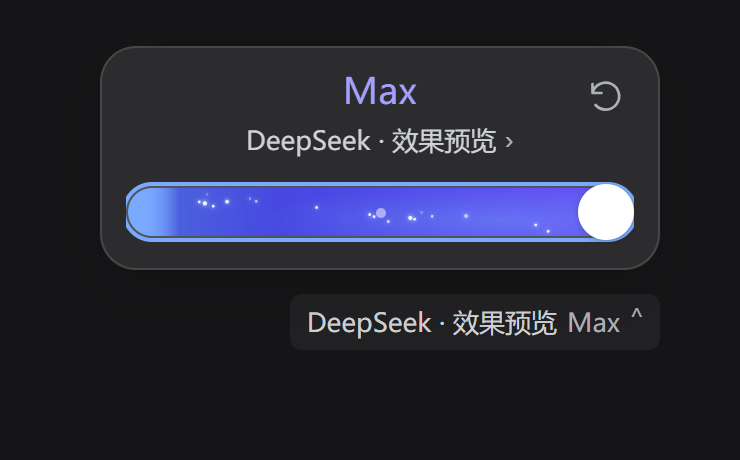
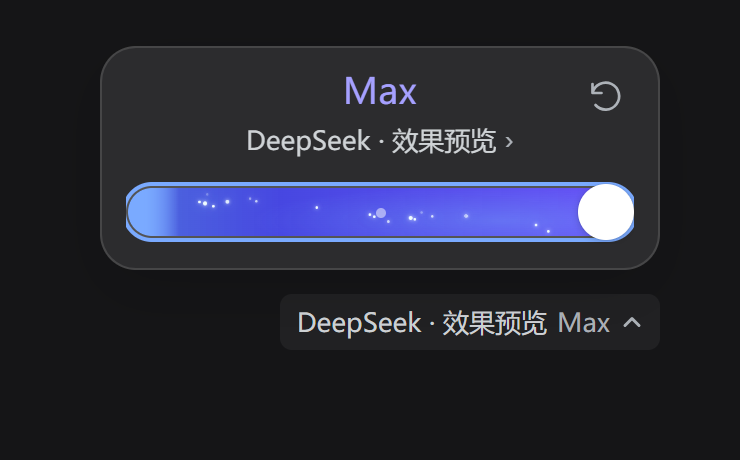
优化 DSHGit PR 查询与代理支持，更新 ReasoningSlider 至 0.1.11
- DSHGit 改为仅在 PR 视图触发 PR 查询，避免启动、刷新及分支切换时访问 GitHub
- PR 查询移出仓库队列，避免阻塞本地状态与分支读取
- 使用 gh GraphQL 一次获取 PR 与默认分支
- HTTPS 远程操作支持 DSH_GIT_PROXY，Windows 下可通过 PowerShell 查询系统代理
- 更新相关测试与 README
- ReasoningSlider 版本升至 0.1.11，替换触发器下拉图标为 SVG 并更新演示图

验证情况：未提供测试结果。

Changed region(s): [[0.4041, 0.6696, 0.8703, 0.7304]]

diff --git a/ReasoningSlider/lib/client.js b/ReasoningSlider/lib/client.js
@@ -38,7 +38,7 @@ var import_react = __toESM(require("react"), 1);
 var import_react_dom = require("react-dom");
 
 // ReasoningSlider/src/style.css
-var style_default = "/* DSH \u63A8\u7406\u6ED1\u6761\uFF1A\u8D34\u5728\u6A21\u578B\u6309\u94AE\u4E0A\u65B9\u7684\u7D27\u51D1\u6D6E\u5C42\u3002\n   Compact popover: 280px wide, 13/18 model caption, 18px level headline and a\n   32px track. The slider eases between stops with one shared bezier curve. */\n\n.rs-trigger{display:flex;align-items:center;gap:5px;border:0;border-radius:6px;background:transparent;color:var(--dsw-alias-label-secondary);font:inherit;font-size:13px;height:28px;padding:0 8px;cursor:pointer;transition:background .15s ease,color .15s ease}\n.rs-trigger span{color:var(--dsw-alias-label-tertiary)}\n.rs-trigger:hover,.rs-trigger[aria-expanded=true]{background:var(--dsw-alias-bg-multi-select)}\n.rs-trigger:disabled{opacity:.55;cursor:default}\n.rs-trigger .rs-trigger-chev{display:inline-block;transition:transform 220ms var(--rs-ease,cubic-bezier(.22,1,.36,1))}\n.rs-trigger[aria-expanded=true] .rs-trigger-chev{transform:rotate(180deg)}\n.rs-trigger:focus-visible{outline:2px solid var(--dsw-alias-state-business-primary,#4176e6);outline-offset:2px}\n\n.rs-panel{--rs-accent:var(--dsw-alias-state-business-primary,#4176e6);--rs-thumb:28px;--rs-ease:cubic-bezier(.25,.8,.25,1);--rs-move:380ms;\n  position:fixed;z-index:1000;width:min(280px,calc(100vw - 20px));box-sizing:border-box;\n  padding:10px 12px 12px;border:1px solid var(--dsw-alias-border-l2);border-radius:18px;\n  background:var(--dsw-alias-bg-layer-2);color:var(--dsw-alias-label-primary);\n  box-shadow:var(--dsw-elevation-prominent,0 10px 30px #0000001f);font-family:inherit;transform-origin:50% 100%}\n.rs-panel.rs-in{animation:rs-panel-in 240ms var(--rs-ease) both}\n@keyframes rs-panel-in{from{opacity:0;transform:translateY(8px) scale(.965)}to{opacity:1;transform:none}}\n.rs-panel button{font-family:inherit;cursor:pointer;border:0;background:transparent}\n.rs-panel button:disabled{opacity:.4;cursor:default}\n.rs-panel button:focus-visible{outline:2px solid var(--rs-accent);outline-offset:2px}\n\n.rs-reset{position:absolute;right:10px;top:8px;display:grid;place-items:center;width:28px;height:28px;\n  padding:0;border-radius:50%;color:var(--dsw-alias-label-tertiary);\n  transition:background .15s ease,color .15s ease,transform 240ms var(--rs-ease)}\n.rs-reset:hover{background:var(--dsw-alias-bg-multi-select);color:var(--dsw-alias-label-secondary)}\n.rs-reset:active{transform:rotate(-24deg)}\n.rs-reset svg{width:18px;height:18px;fill:none;stroke:currentColor;stroke-width:1.8;stroke-linecap:round;stroke-linejoin:round}\n\n.rs-level{display:flex;align-items:center;justify-content:center;height:24px;overflow:hidden;\n  color:var(--rs-accent);font-size:18px;line-height:24px;font-weight:500;letter-spacing:.2px;white-space:nowrap}\n.rs-level-text{display:inline-block}\n\n.rs-model{display:flex;align-items:center;justify-content:center;gap:4px;max-width:100%;margin:1px auto 9px;\n  padding:2px 6px;border-radius:6px;color:var(--dsw-alias-label-secondary);font-size:13px;line-height:18px;\n  transition:background .15s ease,color .15s ease}\n.rs-model:hover{background:var(--dsw-alias-bg-multi-select);color:var(--dsw-alias-label-primary)}\n.rs-model-name{overflow:hidden;text-overflow:ellipsis;white-space:nowrap}\n.rs-chev{display:inline-flex;color:var(--dsw-alias-label-tertiary);font-size:14px;line-height:1;\n  transition:transform 240ms var(--rs-ease)}\n.rs-model[aria-expanded=true] .rs-chev{transform:rotate(90deg)}\n\n.rs-slider{--v:0;position:relative;height:32px;border-radius:999px;outline:none;cursor:pointer;\n  touch-action:none;user-select:none;-webkit-user-select:none}\n.rs-slider[aria-disabled=true]{cursor:default;opacity:.5}\n.rs-panel[data-saving] .rs-slider[aria-disabled=true],.rs-panel[data-saving] button:disabled{opacity:1}\n.rs-track{position:absolute;inset:3px 0;overflow:hidden;border:1px solid var(--dsw-alias-border-l2);\n  border-radius:999px;background:var(--dsw-alias-bg-overlay)}\n.rs-fill{display:block;height:100%;width:calc(var(--rs-thumb)/2 + (100% - var(--rs-thumb)) * var(--v));\n  background:var(--rs-accent);transition:width var(--rs-move) var(--rs-ease)}\n.rs-ticks{position:absolute;inset:0 calc(var(--rs-thumb)/2);display:flex;align-items:center;justify-content:space-between}\n.rs-ticks i{width:5px;height:5px;border-radius:50%;background:var(--dsw-alias-label-tertiary);opacity:.85;\n  transition:background-color 200ms linear,opacity 200ms linear,transform 240ms var(--rs-ease)}\n.rs-ticks i.on{background:#fff;opacity:.5}\n.rs-ticks i:first-child{visibility:hidden}\n.rs-thumb{position:absolute;top:50%;left:calc(var(--rs-thumb)/2 + (100% - var(--rs-thumb)) * var(--v));\n  width:var(--rs-thumb);height:var(--rs-thumb);border-radius:50%;background:#fff;pointer-events:none;\n  box-shadow:0 1px 4px #00000030,0 0 0 .5px #0000000f;transform:translate(-50%,-50%);\n  transition:left var(--rs-move) var(--rs-ease),transform 260ms cubic-bezier(.34,1.4,.64,1),box-shadow 180ms ease}\n.rs-slider[data-dragging] .rs-thumb{\n  transform:translate(-50%,-50%) scale(.94);box-shadow:0 1px 3px #00000038,0 0 0 .5px #0000000f}\n.rs-slider:focus-visible .rs-track{box-shadow:0 0 0 2px var(--dsw-focus-ring-color,var(--rs-accent))}\n\n/* \u4ECE\u53F3\u7AEF\u6863\u4F4D\u5411\u5DE6\u5C55\u5F00\uFF0C\u4FDD\u7559\u5DE6\u4FA7\u54C1\u724C\u84DD\u3002 Reveal from the right stop, leaving the left blue. */\n.rs-panel{--rs-max-color:#4941cf;--rs-max-glint:#effcff}\nbody[data-ds-dark-theme] .rs-panel{--rs-max-color:#a5a0ff;--rs-max-glint:#f1fdff}\n.rs-panel[data-max] .rs-level{color:var(--rs-max-color)}\n.rs-max-field{position:absolute;top:0;bottom:0;right:calc((100% - var(--rs-thumb)) * (1 - var(--max-v)) + var(--rs-thumb)/2 - 1px);width:calc(92% * var(--max-v));\n  pointer-events:none;overflow:hidden;clip-path:inset(0);\n  background:linear-gradient(90deg,transparent 0%,#4454d9dd 8%,#4340dfee 30%,#6551f5 100%);\n  mask-image:linear-gradient(90deg,transparent,black 8%)}\n.rs-max-field[data-reveal]{animation:rs-max-reveal 850ms cubic-bezier(.22,1,.36,1) both}\n.rs-max-field[data-exit]{animation:rs-max-retreat 420ms cubic-bezier(.4,0,.2,1) both}\n@keyframes rs-max-retreat{from{clip-path:inset(0);opacity:1}to{clip-path:inset(0 0 0 100%);opacity:0}}\n@keyframes rs-max-reveal{from{clip-path:inset(0 0 0 100%)}to{clip-path:inset(0 0 0 0)}}\n.rs-max-glow{position:absolute;inset:-40% -5%;opacity:.65;\n  background:radial-gradient(ellipse at 72% 60%,#80cfffaa,transparent 48%);\n  animation:rs-max-breathe 4s ease-in-out infinite alternate}\n@keyframes rs-max-breathe{from{opacity:.4;transform:translateX(3%)}to{opacity:.8;transform:translateX(-4%)}}\n.rs-spark{position:absolute;width:var(--size);height:var(--size);border-radius:50%;\n  background:var(--rs-max-glint);box-shadow:0 0 3px #fff,0 0 7px #9cdcffb3;\n  animation:rs-spark-drift var(--duration) ease-in-out var(--delay) infinite;opacity:0}\n@keyframes rs-spark-drift{0%{opacity:0;transform:translate(5px,2px) scale(.7)}\n  20%,45%{opacity:1}75%{opacity:.8}100%{opacity:0;transform:translate(-20px,-5px) scale(.6)}}\n\n.rs-view{display:grid;grid-template-rows:0fr;opacity:0;visibility:hidden;\n  transition:grid-template-rows 320ms cubic-bezier(.22,1,.36,1),opacity 180ms cubic-bezier(.22,1,.36,1),visibility 0s 320ms}\n.rs-view[data-active]{grid-template-rows:1fr;opacity:1;visibility:visible;transition-delay:0s}\n.rs-view-inner{min-height:0;overflow:hidden;position:relative}\n.rs-view .rs-reset{top:0;right:0}\n.rs-picker-back{display:flex;align-items:center;gap:6px;padding:2px 7px 8px;color:var(--dsw-alias-label-tertiary);font-size:13px}\n.rs-picker-back:hover{color:var(--dsw-alias-label-primary)}\n.rs-panel[data-picking] .rs-max-field,.rs-panel[data-picking] .rs-max-glow,.rs-panel[data-picking] .rs-spark{animation-play-state:paused}\n.rs-models{max-height:min(300px,calc(100vh - 100px));overflow:auto;margin:0;padding:0}\n@keyframes rs-models-in{from{opacity:0;transform:translateY(-3px)}to{opacity:1;transform:none}}\n.rs-group + .rs-group{margin-top:4px}\n.rs-models small{display:block;padding:2px 7px;color:var(--dsw-alias-label-tertiary);font-size:11px;line-height:16px}\n.rs-models button{display:flex;align-items:center;justify-content:space-between;gap:8px;width:100%;\n  padding:6px 7px;border-radius:6px;text-align:left;color:var(--dsw-alias-label-primary);\n  font-size:12.5px;line-height:18px;transition:background .15s ease}\n.rs-models button:hover{background:var(--dsw-alias-bg-multi-select)}\n.rs-models button[aria-current=true]{color:var(--rs-accent)}\n.rs-models p{margin:4px 7px;color:var(--dsw-alias-label-tertiary);font-size:12px}\n.rs-error{margin:10px 0 0;color:var(--dsw-alias-label-secondary);font-size:12px;line-height:17px}\n\nbody[data-ds-dark-theme] .rs-track{background:#3f3f3f;border-color:#545454}\nbody[data-ds-dark-theme] .rs-ticks i{background:#8a8a8a}\nbody[data-ds-dark-theme] .rs-ticks i.on{background:#fff}\n\n@media(max-width:480px){.rs-panel{width:min(280px,calc(100vw - 16px));padding:10px 12px 12px;border-radius:18px}\n.rs-level{font-size:18px}}\n\n@media(prefers-reduced-motion:reduce){\n  .rs-view{transition:none}\n  .rs-max-field,.rs-max-field[data-reveal],.rs-max-field[data-exit],.rs-max-glow,.rs-spark{animation:none}\n  .rs-spark{opacity:.8}\n  .rs-panel.rs-in,.rs-level-text,.rs-models{animation:none}\n  .rs-fill,.rs-thumb,.rs-ticks i,.rs-reset,.rs-chev,.rs-trigger-chev,.rs-model{transition:none}\n}\n";
+var style_default = "/* DSH \u63A8\u7406\u6ED1\u6761\uFF1A\u8D34\u5728\u6A21\u578B\u6309\u94AE\u4E0A\u65B9\u7684\u7D27\u51D1\u6D6E\u5C42\u3002\n   Compact popover: 280px wide, 13/18 model caption, 18px level headline and a\n   32px track. The slider eases between stops with one shared bezier curve. */\n\n.rs-trigger{display:flex;align-items:center;gap:5px;border:0;border-radius:6px;background:transparent;color:var(--dsw-alias-label-secondary);font:inherit;font-size:13px;height:28px;padding:0 8px;cursor:pointer;transition:background .15s ease,color .15s ease}\n.rs-trigger span{color:var(--dsw-alias-label-tertiary)}\n.rs-trigger:hover,.rs-trigger[aria-expanded=true]{background:var(--dsw-alias-bg-multi-select)}\n.rs-trigger:disabled{opacity:.55;cursor:default}\n.rs-trigger .rs-trigger-chev{display:block;flex:none;width:12px;height:12px;color:var(--dsw-alias-label-tertiary);transform-origin:center;transition:transform 220ms var(--rs-ease,cubic-bezier(.22,1,.36,1))}\n.rs-trigger[aria-expanded=true] .rs-trigger-chev{transform:rotate(180deg)}\n.rs-trigger:focus-visible{outline:2px solid var(--dsw-alias-state-business-primary,#4176e6);outline-offset:2px}\n\n.rs-panel{--rs-accent:var(--dsw-alias-state-business-primary,#4176e6);--rs-thumb:28px;--rs-ease:cubic-bezier(.25,.8,.25,1);--rs-move:380ms;\n  position:fixed;z-index:1000;width:min(280px,calc(100vw - 20px));box-sizing:border-box;\n  padding:10px 12px 12px;border:1px solid var(--dsw-alias-border-l2);border-radius:18px;\n  background:var(--dsw-alias-bg-layer-2);color:var(--dsw-alias-label-primary);\n  box-shadow:var(--dsw-elevation-prominent,0 10px 30px #0000001f);font-family:inherit;transform-origin:50% 100%}\n.rs-panel.rs-in{animation:rs-panel-in 240ms var(--rs-ease) both}\n@keyframes rs-panel-in{from{opacity:0;transform:translateY(8px) scale(.965)}to{opacity:1;transform:none}}\n.rs-panel button{font-family:inherit;cursor:pointer;border:0;background:transparent}\n.rs-panel button:disabled{opacity:.4;cursor:default}\n.rs-panel button:focus-visible{outline:2px solid var(--rs-accent);outline-offset:2px}\n\n.rs-reset{position:absolute;right:10px;top:8px;display:grid;place-items:center;width:28px;height:28px;\n  padding:0;border-radius:50%;color:var(--dsw-alias-label-tertiary);\n  transition:background .15s ease,color .15s ease,transform 240ms var(--rs-ease)}\n.rs-reset:hover{background:var(--dsw-alias-bg-multi-select);color:var(--dsw-alias-label-secondary)}\n.rs-reset:active{transform:rotate(-24deg)}\n.rs-reset svg{width:18px;height:18px;fill:none;stroke:currentColor;stroke-width:1.8;stroke-linecap:round;stroke-linejoin:round}\n\n.rs-level{display:flex;align-items:center;justify-content:center;height:24px;overflow:hidden;\n  color:var(--rs-accent);font-size:18px;line-height:24px;font-weight:500;letter-spacing:.2px;white-space:nowrap}\n.rs-level-text{display:inline-block}\n\n.rs-model{display:flex;align-items:center;justify-content:center;gap:4px;max-width:100%;margin:1px auto 9px;\n  padding:2px 6px;border-radius:6px;color:var(--dsw-alias-label-secondary);font-size:13px;line-height:18px;\n  transition:background .15s ease,color .15s ease}\n.rs-model:hover{background:var(--dsw-alias-bg-multi-select);color:var(--dsw-alias-label-primary)}\n.rs-model-name{overflow:hidden;text-overflow:ellipsis;white-space:nowrap}\n.rs-chev{display:inline-flex;color:var(--dsw-alias-label-tertiary);font-size:14px;line-height:1;\n  transition:transform 240ms var(--rs-ease)}\n.rs-model[aria-expanded=true] .rs-chev{transform:rotate(90deg)}\n\n.rs-slider{--v:0;position:relative;height:32px;border-radius:999px;outline:none;cursor:pointer;\n  touch-action:none;user-select:none;-webkit-user-select:none}\n.rs-slider[aria-disabled=true]{cursor:default;opacity:.5}\n.rs-panel[data-saving] .rs-slider[aria-disabled=true],.rs-panel[data-saving] button:disabled{opacity:1}\n.rs-track{position:absolute;inset:3px 0;overflow:hidden;border:1px solid var(--dsw-alias-border-l2);\n  border-radius:999px;background:var(--dsw-alias-bg-overlay)}\n.rs-fill{display:block;height:100%;width:calc(var(--rs-thumb)/2 + (100% - var(--rs-thumb)) * var(--v));\n  background:var(--rs-accent);transition:width var(--rs-move) var(--rs-ease)}\n.rs-ticks{position:absolute;inset:0 calc(var(--rs-thumb)/2);display:flex;align-items:center;justify-content:space-between}\n.rs-ticks i{width:5px;height:5px;border-radius:50%;background:var(--dsw-alias-label-tertiary);opacity:.85;\n  transition:background-color 200ms linear,opacity 200ms linear,transform 240ms var(--rs-ease)}\n.rs-ticks i.on{background:#fff;opacity:.5}\n.rs-ticks i:first-child{visibility:hidden}\n.rs-thumb{position:absolute;top:50%;left:calc(var(--rs-thumb)/2 + (100% - var(--rs-thumb)) * var(--v));\n  width:var(--rs-thumb);height:var(--rs-thumb);border-radius:50%;background:#fff;pointer-events:none;\n  box-shadow:0 1px 4px #00000030,0 0 0 .5px #0000000f;transform:translate(-50%,-50%);\n  transition:left var(--rs-move) var(--rs-ease),transform 260ms cubic-bezier(.34,1.4,.64,1),box-shadow 180ms ease}\n.rs-slider[data-dragging] .rs-thumb{\n  transform:translate(-50%,-50%) scale(.94);box-shadow:0 1px 3px #00000038,0 0 0 .5px #0000000f}\n.rs-slider:focus-visible .rs-track{box-shadow:0 0 0 2px var(--dsw-focus-ring-color,var(--rs-accent))}\n\n/* \u4ECE\u53F3\u7AEF\u6863\u4F4D\u5411\u5DE6\u5C55\u5F00\uFF0C\u4FDD\u7559\u5DE6\u4FA7\u54C1\u724C\u84DD\u3002 Reveal from the right stop, leaving the left blue. */\n.rs-panel{--rs-max-color:#4941cf;--rs-max-glint:#effcff}\nbody[data-ds-dark-theme] .rs-panel{--rs-max-color:#a5a0ff;--rs-max-glint:#f1fdff}\n.rs-panel[data-max] .rs-level{color:var(--rs-max-color)}\n.rs-max-field{position:absolute;top:0;bottom:0;right:calc((100% - var(--rs-thumb)) * (1 - var(--max-v)) + var(--rs-thumb)/2 - 1px);width:calc(92% * var(--max-v));\n  pointer-events:none;overflow:hidden;clip-path:inset(0);\n  background:linear-gradient(90deg,transparent 0%,#4454d9dd 8%,#4340dfee 30%,#6551f5 100%);\n  mask-image:linear-gradient(90deg,transparent,black 8%)}\n.rs-max-field[data-reveal]{animation:rs-max-reveal 850ms cubic-bezier(.22,1,.36,1) both}\n.rs-max-field[data-exit]{animation:rs-max-retreat 420ms cubic-bezier(.4,0,.2,1) both}\n@keyframes rs-max-retreat{from{clip-path:inset(0);opacity:1}to{clip-path:inset(0 0 0 100%);opacity:0}}\n@keyframes rs-max-reveal{from{clip-path:inset(0 0 0 100%)}to{clip-path:inset(0 0 0 0)}}\n.rs-max-glow{position:absolute;inset:-40% -5%;opacity:.65;\n  background:radial-gradient(ellipse at 72% 60%,#80cfffaa,transparent 48%);\n  animation:rs-max-breathe 4s ease-in-out infinite alternate}\n@keyframes rs-max-breathe{from{opacity:.4;transform:translateX(3%)}to{opacity:.8;transform:translateX(-4%)}}\n.rs-spark{position:absolute;width:var(--size);height:var(--size);border-radius:50%;\n  background:var(--rs-max-glint);box-shadow:0 0 3px #fff,0 0 7px #9cdcffb3;\n  animation:rs-spark-drift var(--duration) ease-in-out var(--delay) infinite;opacity:0}\n@keyframes rs-spark-drift{0%{opacity:0;transform:translate(5px,2px) scale(.7)}\n  20%,45%{opacity:1}75%{opacity:.8}100%{opacity:0;transform:translate(-20px,-5px) scale(.6)}}\n\n.rs-view{display:grid;grid-template-rows:0fr;opacity:0;visibility:hidden;\n  transition:grid-template-rows 320ms cubic-bezier(.22,1,.36,1),opacity 180ms cubic-bezier(.22,1,.36,1),visibility 0s 320ms}\n.rs-view[data-active]{grid-template-rows:1fr;opacity:1;visibility:visible;transition-delay:0s}\n.rs-view-inner{min-height:0;overflow:hidden;position:relative}\n.rs-view .rs-reset{top:0;right:0}\n.rs-picker-back{display:flex;align-items:center;gap:6px;padding:2px 7px 8px;color:var(--dsw-alias-label-tertiary);font-size:13px}\n.rs-picker-back:hover{color:var(--dsw-alias-label-primary)}\n.rs-panel[data-picking] .rs-max-field,.rs-panel[data-picking] .rs-max-glow,.rs-panel[data-picking] .rs-spark{animation-play-state:paused}\n.rs-models{max-height:min(300px,calc(100vh - 100px));overflow:auto;margin:0;padding:0}\n@keyframes rs-models-in{from{opacity:0;transform:translateY(-3px)}to{opacity:1;transform:none}}\n.rs-group + .rs-group{margin-top:4px}\n.rs-models small{display:block;padding:2px 7px;color:var(--dsw-alias-label-tertiary);font-size:11px;line-height:16px}\n.rs-models button{display:flex;align-items:center;justify-content:space-between;gap:8px;width:100%;\n  padding:6px 7px;border-radius:6px;text-align:left;color:var(--dsw-alias-label-primary);\n  font-size:12.5px;line-height:18px;transition:background .15s ease}\n.rs-models button:hover{background:var(--dsw-alias-bg-multi-select)}\n.rs-models button[aria-current=true]{color:var(--rs-accent)}\n.rs-models p{margin:4px 7px;color:var(--dsw-alias-label-tertiary);font-size:12px}\n.rs-error{margin:10px 0 0;color:var(--dsw-alias-label-secondary);font-size:12px;line-height:17px}\n\nbody[data-ds-dark-theme] .rs-track{background:#3f3f3f;border-color:#545454}\nbody[data-ds-dark-theme] .rs-ticks i{background:#8a8a8a}\nbody[data-ds-dark-theme] .rs-ticks i.on{background:#fff}\n\n@media(max-width:480px){.rs-panel{width:min(280px,calc(100vw - 16px));padding:10px 12px 12px;border-radius:18px}\n.rs-level{font-size:18px}}\n\n@media(prefers-reduced-motion:reduce){\n  .rs-view{transition:none}\n  .rs-max-field,.rs-max-field[data-reveal],.rs-max-field[data-exit],.rs-max-glow,.rs-spark{animation:none}\n  .rs-spark{opacity:.8}\n  .rs-panel.rs-in,.rs-level-text,.rs-models{animation:none}\n  .rs-fill,.rs-thumb,.rs-ticks i,.rs-reset,.rs-chev,.rs-trigger-chev,.rs-model{transition:none}\n}\n";
 
 // ReasoningSlider/src/client.jsx
 var inject = ["slots", "modelDirectories", "sessions", "remote", "remote.session"];
@@ -286,7 +286,7 @@ function Slider({ directory, available, locked }) {
     current?.model.name ?? "\u8BF7\u9009\u62E9\u6A21\u578B",
     " ",
     /* @__PURE__ */ import_react.default.createElement("span", { className: "rs-trigger-level" }, current && (levels[selected]?.name ?? "")),
-    /* @__PURE__ */ import_react.default.createElement("span", { className: "rs-trigger-chev" }, "\u2304")
+    /* @__PURE__ */ import_react.default.createElement("svg", { className: "rs-trigger-chev", width: "12", height: "12", viewBox: "0 0 12 12", fill: "none", "aria-hidden": "true", focusable: "false" }, /* @__PURE__ */ import_react.default.createElement("path", { d: "m2.5 4.25 3.5 3.5 3.5-3.5", stroke: "currentColor", strokeWidth: "1.5", strokeLinecap: "round", strokeLinejoin: "round" }))
   ), open && (0, import_react_dom.createPortal)(/* @__PURE__ */ import_react.default.createElement("section", { ref: panel, className: `rs-panel${placed ? " rs-in" : ""}`, "data-picking": picking || void 0, "data-saving": state.pending !== null || void 0, "data-max": isMaxEffort(levels[index]) || void 0, style: position, "aria-label": "\u63A8\u7406\u8BBE\u7F6E" }, /* @__PURE__ */ import_react.default.createElement("div", { className: "rs-view", "data-active": !picking || void 0, "aria-hidden": picking || void 0, inert: picking ? "" : void 0 }, /* @__PURE__ */ import_react.default.createElement("div", { className: "rs-view-inner" }, /* @__PURE__ */ import_react.default.createElement("button", { className: "rs-reset", title: "\u91CD\u7F6E\u4E3A\u9ED8\u8BA4\u8BBE\u7F6E", "aria-label": "\u91CD\u7F6E\u4E3A\u9ED8\u8BA4\u8BBE\u7F6E", disabled: !levels.length || busy, onClick: reset }, /* @__PURE__ */ import_react.default.createElement("svg", { viewBox: "0 0 24 24" }, /* @__PURE__ */ import_react.default.createElement("path", { d: "M3 10a9 9 0 1 1 2 8M3 4v6h6" }))), /* @__PURE__ */ import_react.default.createElement("span", { className: "rs-level", "aria-hidden": "true" }, /* @__PURE__ */ import_react.default.createElement("span", { className: "rs-level-text" }, label)), /* @__PURE__ */ import_react.default.createElement("button", { className: "rs-model", "aria-expanded": picking, onClick: () => setPicking(!picking) }, /* @__PURE__ */ import_react.default.createElement("span", { className: "rs-model-name" }, current?.model.name ?? "\u9009\u62E9\u6A21\u578B"), /* @__PURE__ */ import_react.default.createElement("span", { className: "rs-chev", "aria-hidden": "true" }, "\u203A")), levels.length > 0 && /* @__PURE__ */ import_react.default.createElement(
     Range,
     {

diff --git a/DSHGit/lib/host.js b/DSHGit/lib/host.js
@@ -282,9 +282,27 @@ var GitRepository = class {
       const match = /^(?:https:\/\/github\.com\/|git@github\.com:|ssh:\/\/git@github\.com\/)([^/\s]+\/[^/\s]+?)(?:\.git)?$/.exec(origin);
       if (!match) throw new Error("\u521B\u5EFA PR \u9700\u8981 github.com \u7684 origin \u8FDC\u7A0B\u4ED3\u5E93\u3002");
       const repository = match[1];
-      const info = JSON.parse(await this.run("gh", ["repo", "view", repository, "--json", "nameWithOwner,defaultBranchRef"], root));
+      if (request.action === "prInfo") {
+        const [owner, name] = repository.split("/");
+        const query = "query($owner:String!,$name:String!,$head:String!){repository(owner:$owner,name:$name){defaultBranchRef{name} pullRequests(first:1,headRefName:$head,states:OPEN,orderBy:{field:CREATED_AT,direction:DESC}){nodes{number title url}}}}";
+        const response = await this.run("gh", [
+          "api",
+          "graphql",
+          "--hostname",
+          "github.com",
+          "-f",
+          "query=" + query,
+          "-f",
+          "owner=" + owner,
+          "-f",
+          "name=" + name,
+          "-f",
+          "head=" + state.branch
+        ], root);
+        const info = JSON.parse(response).data.repository;
+        return { pr: info.pullRequests.nodes[0] ?? null, base: info.defaultBranchRef?.name ?? "main" };
+      }
       const prs = JSON.parse(await this.run("gh", ["pr", "list", "--repo", repository, "--head", state.branch, "--state", "open", "--json", "number,title,url"], root));
-      if (request.action === "prInfo") return { pr: prs[0] ?? null, base: info.defaultBranchRef?.name ?? "main" };
       if (prs.length) return { pr: prs[0], notice: "\u5F53\u524D\u5206\u652F\u5DF2\u6709 Pull Request" };
       const base = required(request.base, "\u76EE\u6807\u5206\u652F");
       await this.git(root, ["check-ref-format", "--branch", base]);
@@ -626,10 +644,19 @@ var RepositoryCache = class {
   }
   async execute(request, repo = this.repo) {
     await this.ready;
+    if (request.action === "prInfo") {
+      this.jobs++;
+      try {
+        const state = await this.read();
+        return await repo.execute(this.paths[0], request, true, state);
+      } finally {
+        this.jobs--;
+      }
+    }
     return this.enqueue(async () => {
       if (this.failure) throw this.failure;
       const before = repo.lastSnapshot;
-      const cached = request.action === "diff" || request.action === "prInfo" ? this.snapshot.state : void 0;
+      const cached = request.action === "diff" ? this.snapshot.state : void 0;
       const result = await repo.execute(this.paths[0], request, true, cached);
       if (repo.lastSnapshot !== before) {
         this.snapshot = repo.lastSnapshot;
@@ -799,8 +826,8 @@ var GitService = class extends (_a = TypertRemoteService, _changes_dec = [Remote
     const session = this.ctx.sessions.get(sessionId);
     if (!session?.header.cwd) throw new Error("\u8BF7\u5148\u6253\u5F00\u5DE5\u4F5C\u533A\u4F1A\u8BDD\u3002");
     const policy = this.ctx.sandboxPolicy.resolve({ session });
-    const runner = async (program, args, cwd, input, allowed = [0]) => {
-      const timeout = AbortSignal.timeout(12e4);
+    const execute = async (program, args, cwd, input, allowed = [0], env = {}) => {
+      const timeout = AbortSignal.timeout(program === "powershell.exe" ? 3e3 : 12e4);
       const signal = AbortSignal.any([this.abort.signal, lifetime, timeout]);
       const executable = await this.ctx.subprocess.resolveExecutable(program, void 0, signal);
       const argv = [executable, ...args];
@@ -810,7 +837,7 @@ var GitService = class extends (_a = TypertRemoteService, _changes_dec = [Remote
         cwd,
         graceMs: 1e3,
         signal,
-        env: { GIT_OPTIONAL_LOCKS: "0", GIT_TERMINAL_PROMPT: "0", GIT_LITERAL_PATHSPECS: "1", GH_PROMPT_DISABLED: "1", GH_PAGER: "cat" },
+        env: { ...env, GIT_OPTIONAL_LOCKS: "0", GIT_TERMINAL_PROMPT: "0", GIT_LITERAL_PATHSPECS: "1", GH_PROMPT_DISABLED: "1", GH_PAGER: "cat" },
         stdio: {
           stdin: input === void 0 ? "ignore" : "pipe",
           stdout: { maxBytes: 2 * 1024 * 1024 },
@@ -831,7 +858,27 @@ var GitService = class extends (_a = TypertRemoteService, _changes_dec = [Remote
       if (stdout.lossy) throw new Error("\u8F93\u51FA\u8FC7\u5927\uFF0C\u65E0\u6CD5\u5B8C\u6574\u663E\u793A\uFF0C\u8BF7\u4F7F\u7528 Git \u547D\u4EE4\u884C\u67E5\u770B\u3002");
       return stdout.text;
     };
-    return runner;
+    const routes = /* @__PURE__ */ new Map();
+    return async (program, args, cwd, input, allowed) => {
+      const command = args[0] === "--no-pager" ? args[3] : args[0];
+      if (program === "git" && !["ls-remote", "fetch", "push"].includes(command)) return execute(program, args, cwd, input, allowed);
+      let proxy = process.env.DSH_GIT_PROXY;
+      if (!proxy && process.platform === "win32" && !["https_proxy", "http_proxy", "all_proxy"].some((name) => process.env[name])) {
+        let target = "https://api.github.com";
+        if (program === "git") {
+          const remote = await execute("git", ["remote", "get-url", ...command === "push" ? ["--push"] : [], "origin"], cwd);
+          if (!/^https:\/\//i.test(remote)) return execute(program, args, cwd, input, allowed);
+          target = new URL(remote.trim()).origin;
+        }
+        if (!routes.has(target)) {
+          const script = "$ErrorActionPreference = 'Stop'; $u = [uri][Console]::ReadLine(); $p = [Net.WebRequest]::GetSystemWebProxy().GetProxy($u); if ($p -and $p -ne $u) { $p.AbsoluteUri }";
+          const route = await execute("powershell.exe", ["-NoProfile", "-NonInteractive", "-Command", script], cwd, target + "\n");
+          routes.set(target, route.trim());
+        }
+        proxy = routes.get(target);
+      }
+      return execute(program, args, cwd, input, allowed, proxy ? { https_proxy: proxy, HTTPS_PROXY: proxy } : {});
+    };
   }
   async run(request) {
     request = requestSchema.parse(request);

diff --git a/DSHGit/src/host.ts b/DSHGit/src/host.ts
@@ -132,8 +132,8 @@ class GitService extends TypertRemoteService {
     const session = this.ctx.sessions.get(sessionId as Parameters<Context['sessions']['get']>[0])
     if (!session?.header.cwd) throw new Error('请先打开工作区会话。')
     const policy = this.ctx.sandboxPolicy.resolve({ session })
-    const runner: Runner = async (program, args, cwd, input, allowed = [0]) => {
-      const timeout = AbortSignal.timeout(120000)
+    const execute = async (program: string, args: string[], cwd: string, input?: string, allowed = [0], env: Record<string, string> = {}) => {
+      const timeout = AbortSignal.timeout(program === 'powershell.exe' ? 3000 : 120000)
       const signal = AbortSignal.any([this.abort.signal, lifetime, timeout])
       const executable = await this.ctx.subprocess.resolveExecutable(program, undefined, signal)
       const argv = [executable, ...args]
@@ -142,7 +142,7 @@ class GitService extends TypertRemoteService {
         (await this.ctx.sandbox.confine(argv, { ...policy, mode: policy.mode }, signal)).argv
       const child = this.ctx.subprocess.spawn({
         argv: wrapped, cwd, graceMs: 1000, signal,
-        env: { GIT_OPTIONAL_LOCKS: '0', GIT_TERMINAL_PROMPT: '0', GIT_LITERAL_PATHSPECS: '1', GH_PROMPT_DISABLED: '1', GH_PAGER: 'cat' },
+        env: { ...env, GIT_OPTIONAL_LOCKS: '0', GIT_TERMINAL_PROMPT: '0', GIT_LITERAL_PATHSPECS: '1', GH_PROMPT_DISABLED: '1', GH_PAGER: 'cat' },
         stdio: { stdin: input === undefined ? 'ignore' : 'pipe',
           stdout: { maxBytes: 2 * 1024 * 1024 }, stderr: { maxBytes: 64000 } },
       })
@@ -157,7 +157,28 @@ class GitService extends TypertRemoteService {
       if (stdout.lossy) throw new Error('输出过大，无法完整显示，请使用 Git 命令行查看。')
       return stdout.text
     }
-    return runner
+    const routes = new Map<string, string>()
+    return async (program, args, cwd, input, allowed) => {
+      const command = args[0] === '--no-pager' ? args[3] : args[0]
+      if (program === 'git' && !['ls-remote', 'fetch', 'push'].includes(command)) return execute(program, args, cwd, input, allowed)
+      let proxy = process.env.DSH_GIT_PROXY
+      if (!proxy && process.platform === 'win32' && !['https_proxy', 'http_proxy', 'all_proxy'].some(name => process.env[name])) {
+        let target = 'https://api.github.com'
+        if (program === 'git') {
+          const remote = await execute('git', ['remote', 'get-url', ...(command === 'push' ? ['--push'] : []), 'origin'], cwd)
+          if (!/^https:\/\//i.test(remote)) return execute(program, args, cwd, input, allowed)
+          target = new URL(remote.trim()).origin
+        }
+        // Resolve Windows bypass/PAC inside confinement. 在当前沙箱内解析目标的系统代理与绕过规则。
+        if (!routes.has(target)) {
+          const script = "$ErrorActionPreference = 'Stop'; $u = [uri][Console]::ReadLine(); $p = [Net.WebRequest]::GetSystemWebProxy().GetProxy($u); if ($p -and $p -ne $u) { $p.AbsoluteUri }"
+          const route = await execute('powershell.exe', ['-NoProfile', '-NonInteractive', '-Command', script], cwd, target + '\n')
+          routes.set(target, route.trim())
+        }
+        proxy = routes.get(target)
+      }
+      return execute(program, args, cwd, input, allowed, proxy ? { https_proxy: proxy, HTTPS_PROXY: proxy } : {})
+    }
   }
   @Remote
   async run(request: Request): Promise<Result> {

diff --git a/DSHGit/src/panel.tsx b/DSHGit/src/panel.tsx
@@ -53,11 +53,10 @@ export function GitPanel({ sessionId, remote, onClose }: { sessionId: string; re
   }, [call])
   useEffect(() => {
     alive.current = true
-    void loadPR()
     void call('branches').then(result => { if (alive.current) setBranches(result.branches ?? []) }).catch(() => {})
     const stop = followChanges(() => remoteRef.current, sessionId, async () => { if (!operation.current) await load() }, setLoadError)
     return () => { alive.current = false; stop(); generation.current++; diffGeneration.current++ }
-  }, [load, loadPR, call])
+  }, [load, call])
   useEffect(() => { if (commitOpen) messageInput.current?.focus() }, [commitOpen])
   useEffect(() => { if (view === 'pr') prHeading.current?.focus() }, [view])
   const openPR = () => { if (operation.current) return; setCommitOpen(false); setView('pr'); void loadPR() }
@@ -74,7 +73,7 @@ export function GitPanel({ sessionId, remote, onClose }: { sessionId: string; re
       if (action === 'commit' || action === 'commitPush') { setMessage(''); setCommitOpen(false); setSelected(''); setDiff('选择文件查看差异'); commitTrigger.current?.focus() }
       if (['switch', 'createBranch'].includes(action)) {
         setNewBranch(''); setSelected(''); setDiff('选择文件查看差异'); setPR(undefined); setPRError(''); setBase('')
-        void loadPR()
+        if (view === 'pr') void loadPR()
         const data = await call('branches'); if (alive.current) setBranches(data.branches ?? [])
       }
       if (action === 'stage' || action === 'unstage') { setSelected(''); setDiff('选择文件查看差异') }
@@ -101,7 +100,7 @@ export function GitPanel({ sessionId, remote, onClose }: { sessionId: string; re
     }
   }}>
     <header className="dg-top"><span className="dg-brand"><Icon name="branch"/>DSHGit</span>
-      <div className="dg-tools"><button title="刷新" aria-label="刷新 Git 状态" disabled={!!busy} onClick={() => { void load(true); void loadPR() }}><Icon name="refresh"/></button>
+      <div className="dg-tools"><button title="刷新" aria-label="刷新 Git 状态" disabled={!!busy} onClick={() => { void load(true); if (view === 'pr') void loadPR() }}><Icon name="refresh"/></button>
         <button aria-label="关闭 DSHGit" onClick={onClose}><Icon name="close"/></button></div>
     </header>
     {(error || loadError) && <div className="dg-alert" role="alert">{error || loadError}</div>}

diff --git a/DSHGit/lib/client.js b/DSHGit/lib/client.js
@@ -19975,7 +19975,6 @@ function GitPanel({ sessionId, remote, onClose }) {
   }, [call]);
   (0, import_react.useEffect)(() => {
     alive.current = true;
-    void loadPR();
     void call("branches").then((result) => {
       if (alive.current) setBranches(result.branches ?? []);
     }).catch(() => {
@@ -19989,7 +19988,7 @@ function GitPanel({ sessionId, remote, onClose }) {
       generation.current++;
       diffGeneration.current++;
     };
-  }, [load, loadPR, call]);
+  }, [load, call]);
   (0, import_react.useEffect)(() => {
     if (commitOpen) messageInput.current?.focus();
   }, [commitOpen]);
@@ -20030,7 +20029,7 @@ function GitPanel({ sessionId, remote, onClose }) {
         setPR(void 0);
         setPRError("");
         setBase("");
-        void loadPR();
+        if (view === "pr") void loadPR();
         const data = await call("branches");
         if (alive.current) setBranches(data.branches ?? []);
       }
@@ -20087,7 +20086,7 @@ function GitPanel({ sessionId, remote, onClose }) {
       /* @__PURE__ */ (0, import_jsx_runtime.jsxs)("div", { className: "dg-tools", children: [
         /* @__PURE__ */ (0, import_jsx_runtime.jsx)("button", { title: "\u5237\u65B0", "aria-label": "\u5237\u65B0 Git \u72B6\u6001", disabled: !!busy, onClick: () => {
           void load(true);
-          void loadPR();
+          if (view === "pr") void loadPR();
         }, children: /* @__PURE__ */ (0, import_jsx_runtime.jsx)(Icon, { name: "refresh" }) }),
         /* @__PURE__ */ (0, import_jsx_runtime.jsx)("button", { "aria-label": "\u5173\u95ED DSHGit", onClick: onClose, children: /* @__PURE__ */ (0, import_jsx_runtime.jsx)(Icon, { name: "close" }) })
       ] })

diff --git a/DSHGit/src/git.ts b/DSHGit/src/git.ts
@@ -151,9 +151,15 @@ export class GitRepository {
       const match = /^(?:https:\/\/github\.com\/|git@github\.com:|ssh:\/\/git@github\.com\/)([^/\s]+\/[^/\s]+?)(?:\.git)?$/.exec(origin)
       if (!match) throw new Error('创建 PR 需要 github.com 的 origin 远程仓库。')
       const repository = match[1]
-      const info = JSON.parse(await this.run('gh', ['repo', 'view', repository, '--json', 'nameWithOwner,defaultBranchRef'], root))
+      if (request.action === 'prInfo') {
+        const [owner, name] = repository.split('/')
+        const query = 'query($owner:String!,$name:String!,$head:String!){repository(owner:$owner,name:$name){defaultBranchRef{name} pullRequests(first:1,headRefName:$head,states:OPEN,orderBy:{field:CREATED_AT,direction:DESC}){nodes{number title url}}}}'
+        const response = await this.run('gh', ['api', 'graphql', '--hostname', 'github.com', '-f', 'query=' + query,
+          '-f', 'owner=' + owner, '-f', 'name=' + name, '-f', 'head=' + state.branch], root)
+        const info = JSON.parse(response).data.repository
+        return { pr: info.pullRequests.nodes[0] ?? null, base: info.defaultBranchRef?.name ?? 'main' }
+      }
       const prs = JSON.parse(await this.run('gh', ['pr', 'list', '--repo', repository, '--head', state.branch, '--state', 'open', '--json', 'number,title,url'], root))
-      if (request.action === 'prInfo') return { pr: prs[0] ?? null, base: info.defaultBranchRef?.name ?? 'main' }
       if (prs.length) return { pr: prs[0], notice: '当前分支已有 Pull Request' }
       const base = required(request.base, '目标分支')
       await this.git(root, ['check-ref-format', '--branch', base])

diff --git a/ReasoningSlider/src/client.jsx b/ReasoningSlider/src/client.jsx
@@ -190,7 +190,10 @@ function Slider({ directory, available, locked }) {
   return <>
     <button ref={trigger} className="rs-trigger" disabled={!available || locked} aria-label="推理滑条" aria-expanded={open}
       onClick={() => { setOpen(!open); setPicking(!current); }}>
-      {current?.model.name ?? '请选择模型'} <span className="rs-trigger-level">{current && (levels[selected]?.name ?? '')}</span><span className="rs-trigger-chev">⌄</span>
+      {current?.model.name ?? '请选择模型'} <span className="rs-trigger-level">{current && (levels[selected]?.name ?? '')}</span>
+      <svg className="rs-trigger-chev" width="12" height="12" viewBox="0 0 12 12" fill="none" aria-hidden="true" focusable="false">
+        <path d="m2.5 4.25 3.5 3.5 3.5-3.5" stroke="currentColor" strokeWidth="1.5" strokeLinecap="round" strokeLinejoin="round" />
+      </svg>
     </button>
     {open && createPortal(<section ref={panel} className={`rs-panel${placed ? ' rs-in' : ''}`} data-picking={picking || undefined} data-saving={state.pending !== null || undefined} data-max={isMaxEffort(levels[index]) || undefined} style={position} aria-label="推理设置">
       <div className="rs-view" data-active={!picking || undefined} aria-hidden={picking || undefined} inert={picking ? '' : undefined}><div className="rs-view-inner">

diff --git a/DSHGit/src/cache.ts b/DSHGit/src/cache.ts
@@ -112,10 +112,17 @@ export class RepositoryCache {
   }
   async execute(request: Request, repo = this.repo) {
     await this.ready
+    if (request.action === 'prInfo') {
+      this.jobs++
+      try {
+        const state = await this.read()
+        return await repo.execute(this.paths[0], request, true, state)
+      } finally { this.jobs-- }
+    }
     return this.enqueue(async () => {
       if (this.failure) throw this.failure
       const before = repo.lastSnapshot
-      const cached = request.action === 'diff' || request.action === 'prInfo' ? this.snapshot!.state : undefined
+      const cached = request.action === 'diff' ? this.snapshot!.state : undefined
       const result = await repo.execute(this.paths[0], request, true, cached)
       if (repo.lastSnapshot !== before) { this.snapshot = repo.lastSnapshot!; this.notify() }
       return result

diff --git a/ReasoningSlider/src/style.css b/ReasoningSlider/src/style.css
@@ -6,7 +6,7 @@
 .rs-trigger span{color:var(--dsw-alias-label-tertiary)}
 .rs-trigger:hover,.rs-trigger[aria-expanded=true]{background:var(--dsw-alias-bg-multi-select)}
 .rs-trigger:disabled{opacity:.55;cursor:default}
-.rs-trigger .rs-trigger-chev{display:inline-block;transition:transform 220ms var(--rs-ease,cubic-bezier(.22,1,.36,1))}
+.rs-trigger .rs-trigger-chev{display:block;flex:none;width:12px;height:12px;color:var(--dsw-alias-label-tertiary);transform-origin:center;transition:transform 220ms var(--rs-ease,cubic-bezier(.22,1,.36,1))}
 .rs-trigger[aria-expanded=true] .rs-trigger-chev{transform:rotate(180deg)}
 .rs-trigger:focus-visible{outline:2px solid var(--dsw-alias-state-business-primary,#4176e6);outline-offset:2px}
 

diff --git a/ReasoningSlider/README.md b/ReasoningSlider/README.md
@@ -1,6 +1,6 @@
 # thinking-level
 
-原生插件 `thinking-level`，当前版本 `0.1.10`，适配并验证 DSH `0.2.1-rc.3`。读取 DSH 已配置的真实模型目录、推理档位和默认设置，通过原生模型选择接口写回；不需要额外 API Key。
+原生插件 `thinking-level`，当前版本 `0.1.11`，适配并验证 DSH `0.2.1-rc.3`。读取 DSH 已配置的真实模型目录、推理档位和默认设置，通过原生模型选择接口写回；不需要额外 API Key。
 
 `0.1.3` 保持 280px 紧凑浮层和 DeepSeek 品牌蓝；进入 max / ultra / ultracode 时，靛蓝强调色从所选档位点向左展开，只覆盖填充轨道右侧约七成，并显示 13 颗微光粒子。退出该档位即移除效果；减少动态效果时停止展开、漂移和呼吸动画。效果为原创 CSS，不改变模型参数语义。
 
@@ -25,7 +25,7 @@
 通过目标运行时的官方插件命令安装打包文件：
 
 ```powershell
-dsh plugin --profile desktop add "C:/path/to/thinking-level-0.1.10.tgz" --ignore-scripts
+dsh plugin --profile desktop add "C:/path/to/thinking-level-0.1.11.tgz" --ignore-scripts
 ```
 
 插件包仅包含客户端、空 Host 入口、声明和说明。`debug/` 测试目录、截图和独立 demo 不在安装包中。安装后在 DSH 插件管理页启用；宿主提示需要重启时重启。

diff --git a/DSHGit/README.md b/DSHGit/README.md
@@ -16,6 +16,8 @@
 
 ## 安装
 
+变更视图只读取本地 Git，打开 PR 视图才访问 GitHub。HTTPS 远程操作优先使用宿主已有代理环境。在 Windows 上，未配置代理环境变量时，插件通过当前沙箱内的 Windows PowerShell 查询目标地址适用的系统代理。也可在启动 DSH 前设置 `DSH_GIT_PROXY`，给插件的 HTTPS 命令单独指定代理，例如 `$env:DSH_GIT_PROXY = 'http://127.0.0.1:7890'`（端口按实际配置填写）。Git 自身的代理配置和 SSH 远程仍按 Git 的规则处理。
+
 要求 Node.js **24+**、Git，以及 DSH 0.2.1-alpha.2。推送沿用宿主的 Git/SSH 凭证；PR 功能另需安装 [GitHub CLI](https://cli.github.com/) 并在宿主上完成 `gh auth login`。当前 PR 支持 `github.com` 的 `origin`，不支持其他托管平台及企业域名。
 
 仓库包含可直接安装的 `lib/` 构建产物。将路径替换为实际绝对路径：
